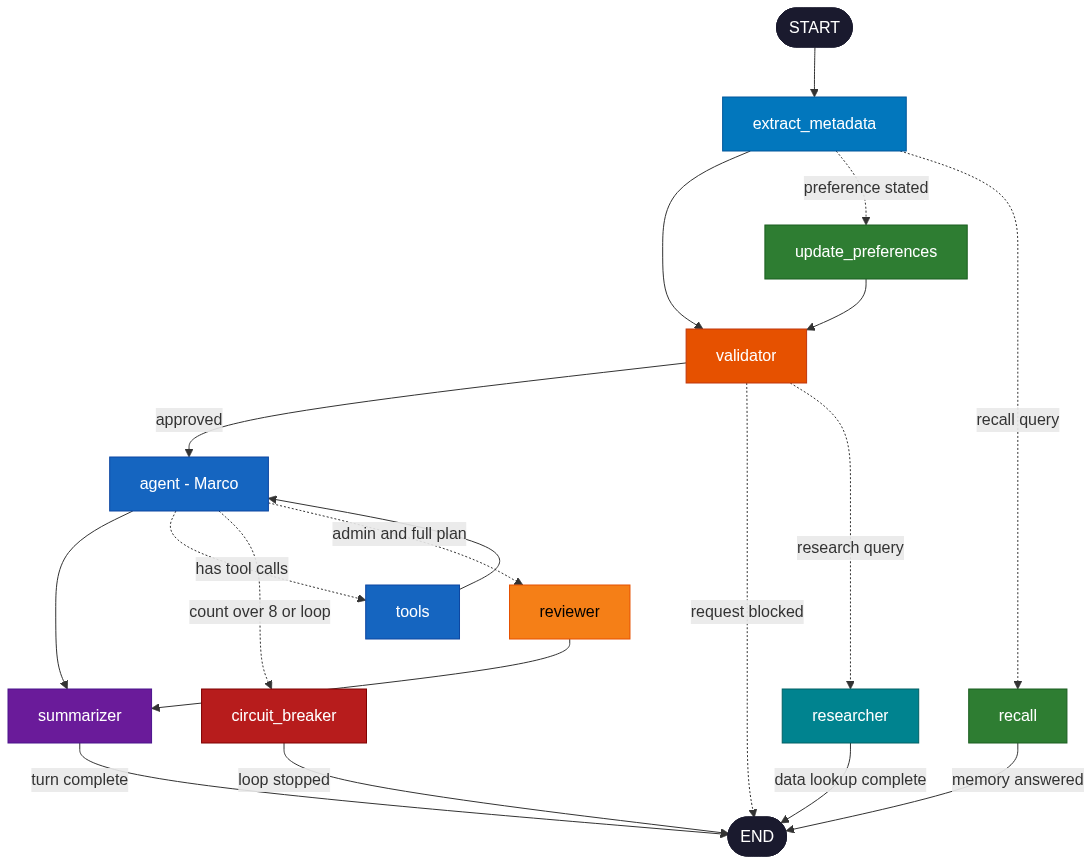
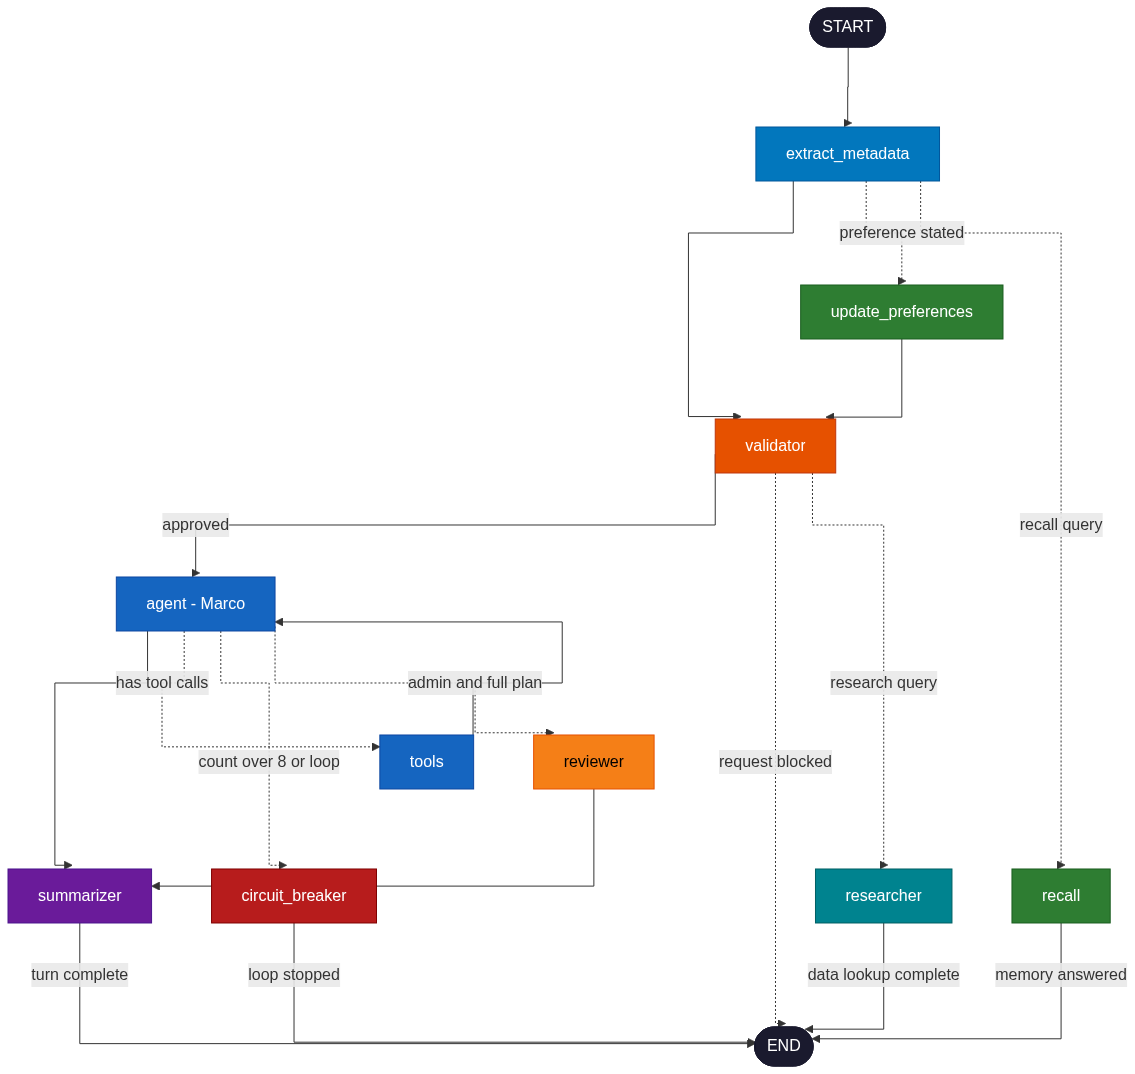
Graph: straight orthogonal lines and white background

diff --git a/generate_graph.py b/generate_graph.py
@@ -13,7 +13,8 @@ Dashed arrows -.->   conditional edges (router decides at runtime)
 import base64
 import httpx
 
-MERMAID = """flowchart TD
+MERMAID = """%%{init: {'flowchart': {'curve': 'stepBefore', 'nodeSpacing': 60, 'rankSpacing': 80}}}%%
+flowchart TD
 
     S([START]) --> EM
 
@@ -72,7 +73,7 @@ MERMAID = """flowchart TD
 
 def render(mermaid_str: str, output: str = "graph.png") -> None:
     encoded = base64.urlsafe_b64encode(mermaid_str.encode("utf-8")).decode("ascii")
-    url = f"https://mermaid.ink/img/{encoded}?type=png&bgColor=fff"
+    url = f"https://mermaid.ink/img/{encoded}?type=png&bgColor=ffffff"
     print("Rendering via mermaid.ink ...")
     resp = httpx.get(url, timeout=30, follow_redirects=True)
     resp.raise_for_status()
